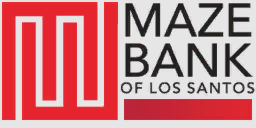
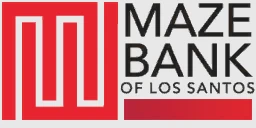
#

Changed region(s): [[0.0, 0.0, 1.0, 0.9688]]

diff --git a/src/SearchBar.tsx b/src/SearchBar.tsx
@@ -5,10 +5,10 @@ export default function ({ children }: { children: ReactNode }) {
     const [url, setUrl] = useState("");
     const navigate = useNavigate();
 
-    window.addEventListener("contextmenu", (e) => {
-        e.preventDefault();
-        navigate(-1);
-    });
+    // window.addEventListener("contextmenu", (e) => {
+    //     e.preventDefault();
+    //     navigate(-1);
+    // });
 
     const handleUrl = ({ children }: { children: ReactNode }) => {
         useEffect(
@@ -33,13 +33,16 @@ export default function ({ children }: { children: ReactNode }) {
                         navigate(encodeURI(url));
                     }}
                 >
-                    <input
-                        type="text"
-                        name="url"
-                        id="search-bar"
-                        value={url}
-                        onChange={(e) => setUrl(e.target.value)}
-                    />
+                    <div id="search-bar-container">
+                        <input
+                            type="text"
+                            name="url"
+                            id="search-bar"
+                            value={url}
+                            onChange={(e) => setUrl(e.target.value)}
+                        />
+                        <button type="submit">Search</button>
+                    </div>
                 </form>
             </div>
             {handleUrl({ children })}

diff --git a/src/pages/Maze.tsx b/src/pages/Maze.tsx
@@ -6,7 +6,7 @@ export default function () {
         <main id="background">
             <span id="bar"></span>
             <div id="container">
-                <img src={logo} alt="" />
+                <img src={logo} alt="Maze Bank Logo" id="logo" />
                 <span id="sep"></span>
                 <div>Hello</div>
             </div>

diff --git a/src/pages/Maze.scss b/src/pages/Maze.scss
@@ -29,6 +29,10 @@ body::after {
     flex-direction: column;
     align-items: center;
 
+    #logo {
+        padding: 16px;
+    }
+
     #sep {
         background-color: #c51d26;
         width: 90%;

diff --git a/src/pages/Eyefind.scss b/src/pages/Eyefind.scss
@@ -1,6 +1,8 @@
 #eyefind-header {
     background-color: #498bc2;
     height: 240px;
+    display: flex;
+    align-items: center;
 }
 
 #eyefind-main {
